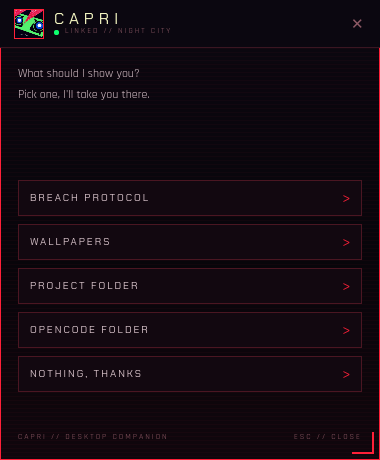
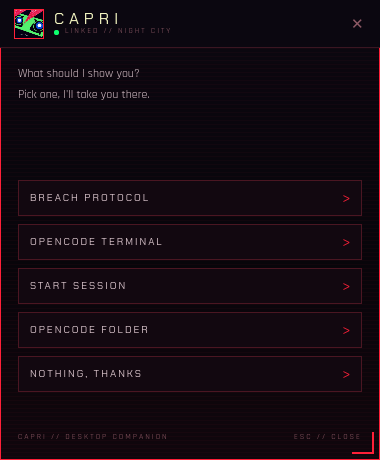
capri: OPENCODE TERMINAL + START SESSION actions; Firefox/Steam removed from autostart

Changed region(s): [[0.0868, 0.5174, 0.4053, 0.5478], [0.0868, 0.6087, 0.3763, 0.6391]]

diff --git a/capri/capri-chat.qml b/capri/capri-chat.qml
@@ -59,8 +59,8 @@ Window {
     function mainMenu() {
         say("What should I show you?\nPick one, I'll take you there.", [
             { id: "breach", label: "BREACH PROTOCOL" },
-            { id: "wallpapers", label: "WALLPAPERS" },
-            { id: "project", label: "PROJECT FOLDER" },
+            { id: "opencodeTerm", label: "OPENCODE TERMINAL" },
+            { id: "session", label: "START SESSION" },
             { id: "opencode", label: "OPENCODE FOLDER" },
             { id: "nothing", label: "NOTHING, THANKS" }
         ])
@@ -71,12 +71,14 @@ Window {
             exec.run("/home/marteam/.local/bin/capricorn-breach-open.sh")
             say("Breach panel is up.\nTry not to get traced, netrunner.", [])
             closeTimer.restart()
-        } else if (id === "wallpapers") {
-            exec.run("xdg-open /home/marteam/.local/share/wallpapers")
-            say("Wallpapers live in\n~/.local/share/wallpapers.\nI opened the folder.", backOpts())
-        } else if (id === "project") {
-            exec.run("xdg-open /home/marteam/Projekty/cyberpunk-capricorn")
-            say("Opening the Capricorn project.\nDon't break my rice.", backOpts())
+        } else if (id === "opencodeTerm") {
+            exec.run("konsole --workdir /home/marteam/Projekty/cyberpunk-capricorn -e opencode")
+            say("Opening a terminal with OpenCode already running.\nGo break something.", [])
+            closeTimer.restart()
+        } else if (id === "session") {
+            exec.run("/home/marteam/.local/bin/capri-session.sh")
+            say("Starting the session.\nDiscord, Firefox, Spotify, Steam — all up.", [])
+            closeTimer.restart()
         } else if (id === "opencode") {
             exec.run("xdg-open /home/marteam/.config/opencode")
             say("Opening OpenCode's config folder.\nGo build something.", backOpts())
